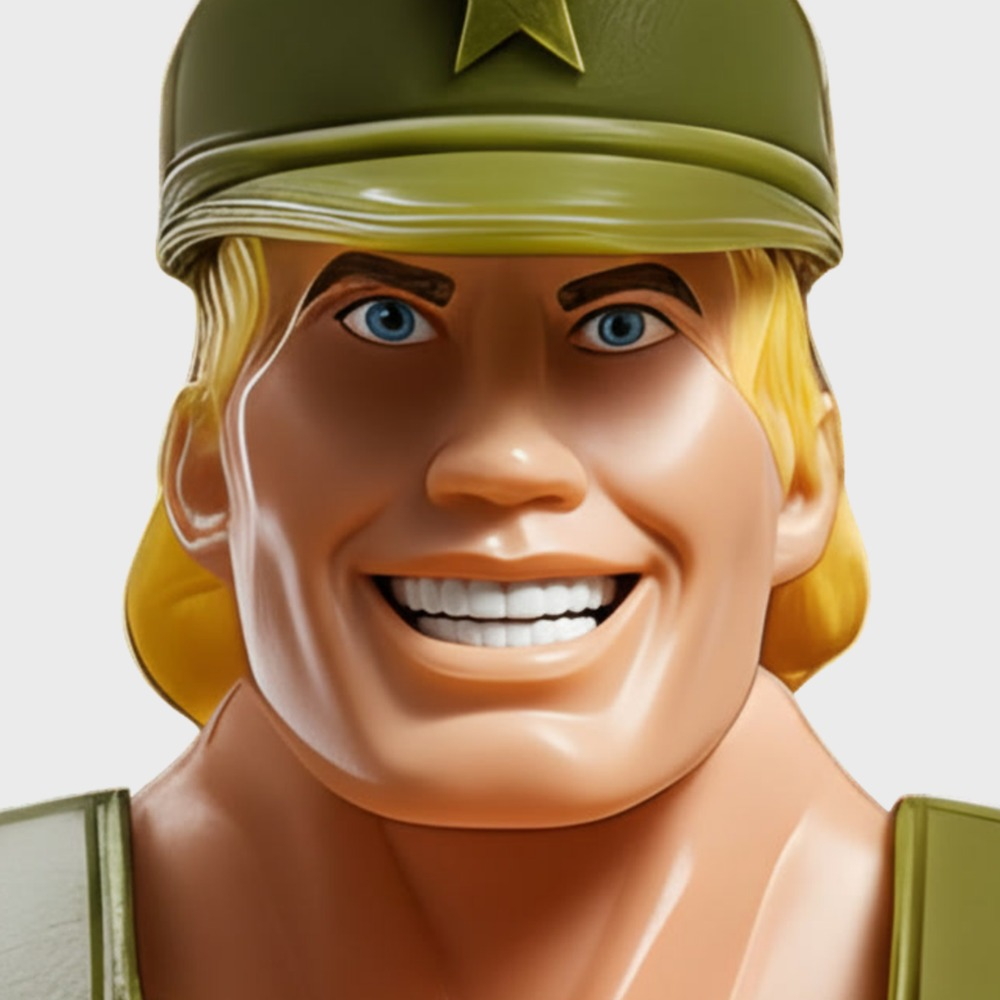
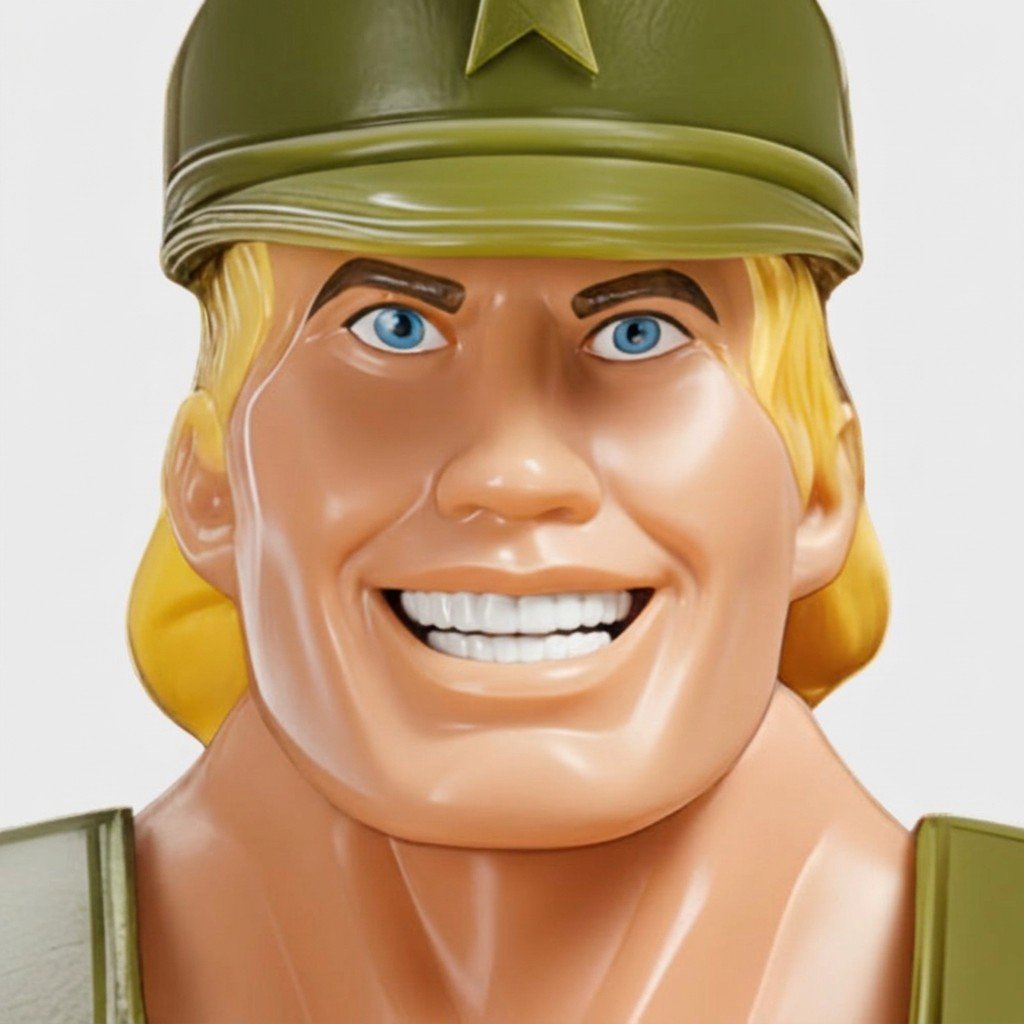
Calendar: new shadow-free Major Wood references and expression picture
Claude-Session: https://claude.ai/code/session_01VcXaw91RRppt3sXxRU8AkG

diff --git a/calendar/PICTURE_RULES.md b/calendar/PICTURE_RULES.md
@@ -52,3 +52,7 @@ Picture: 5:4 landscape, fal google/nano-banana-2.1/edit, 2K. THREE reference pic
 
 ## 7. Prompt template
 Photograph of the action figure in the reference picture ([character traits]) posing for a pin-up calendar, shot as a real macro photograph of a toy in a miniature diorama. He stands on the [left third/centre/right third], full body from boots to hair, head close to the top edge and boots close to the bottom edge, filling about 90 percent of the picture height. NO display stand, NO black disc: boots on the set floor with soft contact shadows. [outfit state]. [prop and how held, away from his face]. [pose]. FACE: big flirtatious smile, eyes into the camera, one eyebrow raised, head tilted, sexy, NOT a frown, NOT stern. Set: [miniature set] in [colour 1] and [colour 2], saturated glossy toy-box colours, [colour] rim lights, glowing bokeh lights, sparkle. No readable writing, no text, no letters. Semi-real toy world: glossy plastic figure with visible joints, toy-scale props, realistic lighting, shallow depth of field. Landscape 5:4.
+
+## Major Wood references (updated 10 Nov 2026)
+- mw_face / mw_head / mw_front replaced with the new shadow-free set (old ones kept in refs/old/).
+- mw_expression.jpg = the calendar expression picture (face reference for all Major Wood month scenes; see Picture Script doc).
